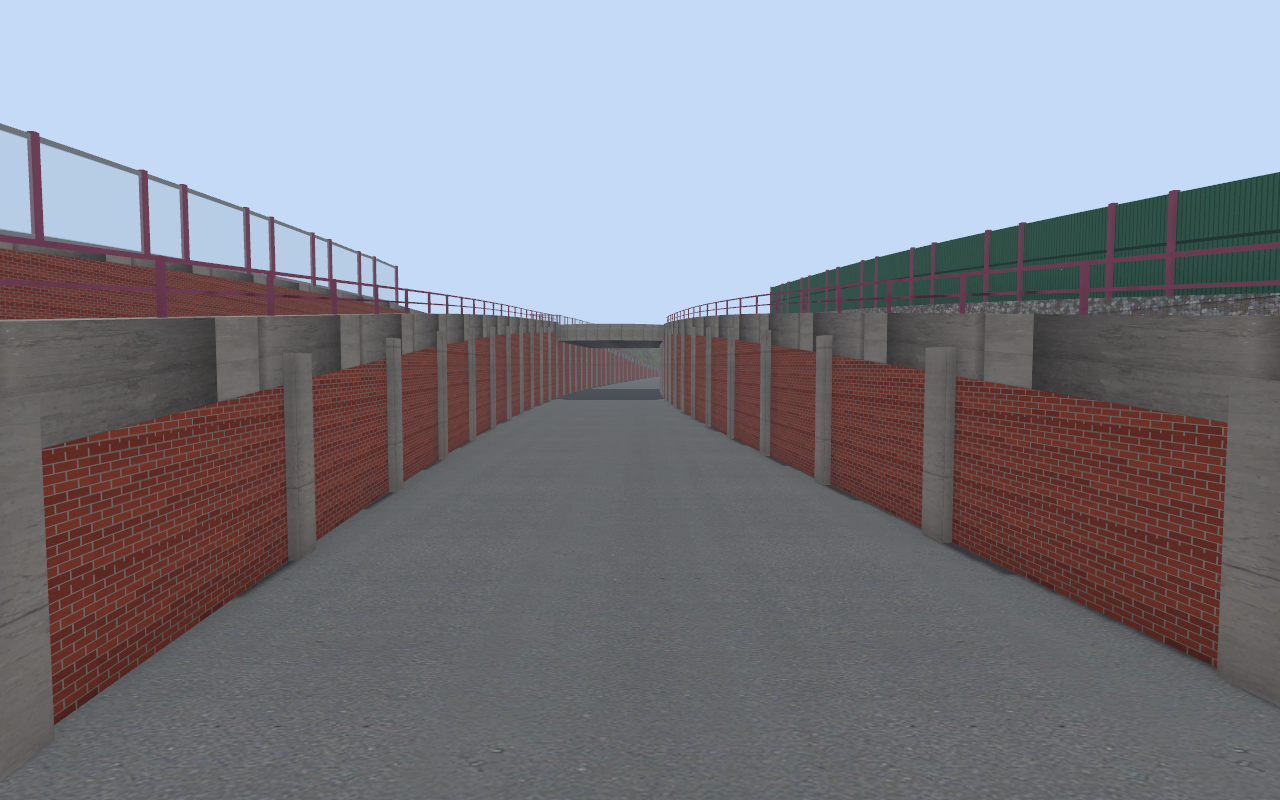
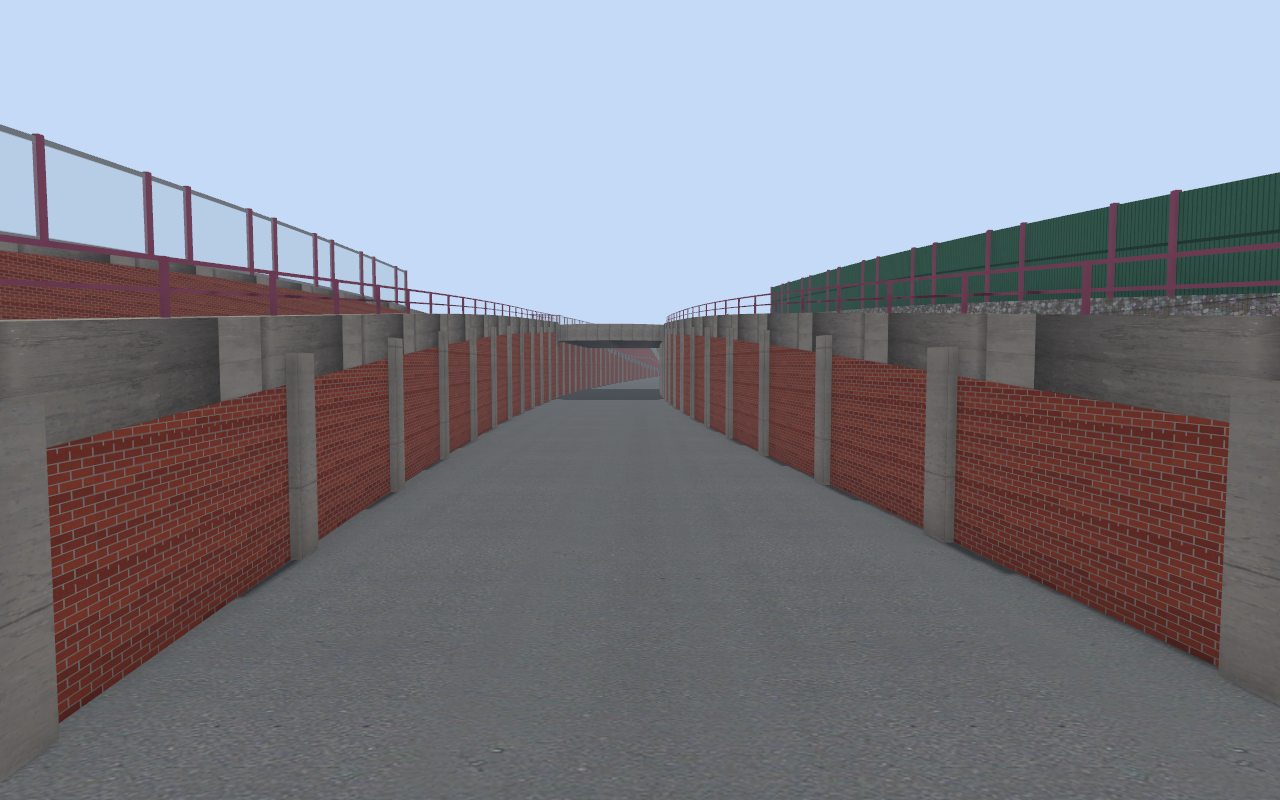
Sonderbau Ring: bis kurz vor das naechste Bauwerk im Sueden verlaengert, Aussenkante auch ohne Trennwand gemessen, Gelaende hinter den Aussenmauern abgesenkt (keine Zacken mehr)

diff --git a/omsigen/ring_entwurf.py b/omsigen/ring_entwurf.py
@@ -17,6 +17,7 @@ from .sonderbau_entwurf import Gelaende, achse_anpassen, gradiente_anpassen, ver
 from . import sonderbau_ring as sr
 
 AUSSCHNITT = (1000, 1170, -460, -100)        # x0, x1, y0, y1 (Kartenkoordinaten)
+Y_ENDE_SUED = -426.0                         # ab hier liegt das naechste Bauwerk ueber dem Ring
 DECKE = (-282.0, -251.0)                     # y-Bereich, in dem das DGM die Decke/Kreuzung zeigt (nicht messen)
 SEITEN = {'w': 1, 'o': -1}                   # Achse Nord -> Sued: rechts (t > 0) = West
 
@@ -53,8 +54,26 @@ def querprofil(ts, h, vz):
         return out
     zt = float(np.median(h[weiter]))
     if zt - zf < 0.8:
-        return out                                     # keine Wand: Rampe muendet auf Ring-Hoehe
-    out['ring'] = _kreuzung(ts, h, (zf + zt) / 2, i0, vz)
+        # keine Trennwand (Rampe auf Ring-Hoehe): Aussenkante = Rand der ganzen ebenen Flaeche (Mauer zum hoeheren
+        # Gelaende); auf flachem Gelaende nicht messbar
+        if zt - zf > 1.5 or abs(t1) > 25:
+            return out
+        k = int(np.argmin(np.abs(ts - t1)))
+        while 0 <= k < len(ts) and h[k] < zf + 0.6:
+            k += vz
+        if not 0 <= k < len(ts) or abs(ts[k]) > 25:
+            return out
+        jen = (vz * (ts - ts[k]) >= 1.5) & (vz * (ts - ts[k]) <= 4.0)
+        if jen.any() and np.median(h[jen]) - zf > 1.5:
+            out['rampe_aussen'] = _kreuzung(ts, h, (zf + float(np.median(h[jen]))) / 2, i0, vz)
+            out['zg'] = float(np.median(h[jen]))
+        return out
+    kante = _kreuzung(ts, h, (zf + zt) / 2, i0, vz)
+    if kante is not None and abs(kante) > 7.5:
+        # weit draussen: keine Trennwand, sondern die Aussenmauer der hier schon vereinten Fahrbahn
+        out['rampe_aussen'], out['zg'] = kante, zt
+        return out
+    out['ring'] = kante
     out['zr'] = zt
     # Rampe: Ebene zt; nach aussen, bis die Hoehe um mehr als 0,6 m abweicht (Aussenwand oder Boeschung)
     j = int(np.argmin(np.abs(ts - (t1 + vz * 2.0))))
@@ -137,7 +156,8 @@ def entwerfen(gel, osm, E0, N0, log=print):
             for f in np.linspace(0, 1, max(2, int(math.dist(p, q) / 2)), endpoint=False):
                 pt = p + (q - p) * f
                 sp, tp = a1.projektion([pt])[0]
-                if (ende == 'Nord' and st_m[:, 0].min() - 45 < sp < st_m[:, 0].min() - 3) or (ende == 'Sued' and st_m[:, 0].max() + 3 < sp < st_m[:, 0].max() + 45):
+                # Sueden: bis kurz vor das naechste Bauwerk ueber dem Ring (y ~ -430)
+                if (ende == 'Nord' and st_m[:, 0].min() - 45 < sp < st_m[:, 0].min() - 3) or (ende == 'Sued' and st_m[:, 0].max() + 3 < sp < st_m[:, 0].max() + 80 and pt[1] > Y_ENDE_SUED):
                     d = q - p
                     n = np.array([d[1], -d[0]]) / np.hypot(*d)          # rechts der OSM-Richtung (Nord -> Sued)
                     enden.append(pt - n * versatz)
@@ -165,7 +185,18 @@ def entwerfen(gel, osm, E0, N0, log=print):
         v = kanten.get(f'ring_{seite}')
         ok = ~np.isnan(z) & (np.abs(feld(seite, 'ring') - v.t(S)) < 0.6 if v is not None else ~np.isnan(z))
         if ok.sum() > 20:
-            hoehen[f'rampe_{seite}'], _ = ohne_ausreisser(S[ok], z[ok], gradiente_anpassen, lambda g, x: g.z(x), 0.4)
+            g, _ = ohne_ausreisser(S[ok], z[ok], gradiente_anpassen, lambda g, x: g.z(x), 0.4)
+            # Enden mit unmoeglicher Steigung (> 10 %: dort wurde Gelaende statt Rampe gemessen) abschneiden
+            for _ in range(3):
+                n = g.neigungen()
+                if abs(n[0]) > 0.10:
+                    ok &= S > g.k[1]
+                elif abs(n[-1]) > 0.10:
+                    ok &= S < g.k[-2]
+                else:
+                    break
+                g, _ = ohne_ausreisser(S[ok], z[ok], gradiente_anpassen, lambda g, x: g.z(x), 0.4)
+            hoehen[f'rampe_{seite}'] = g
     for k, v in kanten.items():
         log(f'{k}: ' + ', '.join(f'{a:.0f}-{b:.0f} m: {t:+.2f}' for a, b, t in v.a))
     for k, g in hoehen.items():

diff --git a/omsigen/sonderbau_ring.py b/omsigen/sonderbau_ring.py
@@ -142,14 +142,18 @@ def aus_entwurf(entwurf, dgm, E0, N0, nn0, schritt=SCHRITT):
     achse = achse_aus_json(entwurf['achse'])
     K = {k: versatz_aus_json(v) for k, v in entwurf['kanten'].items()}
     G = {k: gradiente_aus_json(v) for k, v in entwurf['hoehen'].items()}
-    # Bereich: wo es Ringwaende gibt
-    von = min(min(a for a, _, _ in K[k].a) for k in ('ring_w', 'ring_o'))
-    bis = max(max(b for _, b, _ in K[k].a) for k in ('ring_w', 'ring_o'))
-    S = np.arange(von, bis + 1e-6, schritt)
+    # Bereich: die ganze Achse - ueber die gemessenen Waende hinaus, bis die Rampen eingemuendet sind und der Ring
+    # weiterlaeuft (die Waende enden von selbst, wo Rampe und Gelaende auf Ring-Hoehe liegen)
+    S = np.arange(0.0, achse.laenge + 1e-6, schritt)
     A = achse.punkte(S)
     zr = G['ring'].z(S)
     # Kanten: Entwurf t > 0 = rechts von Nord -> Sued = West; hier quer nach Osten -> Vorzeichen drehen
-    tq = {k: -v.t(S) for k, v in K.items()}
+    tq = {}
+    for k, v in K.items():
+        t = -v.t(S)
+        ok = ~np.isnan(t)
+        # vor/hinter der Messung: letzter Abstand bleibt (Kante laeuft parallel weiter)
+        tq[k] = np.interp(S, S[ok], t[ok]) if ok.any() else t
     zw = {sd: weich_max(np.where((S >= G[f'rampe_{sd}'].k[0] - 30) & (S <= G[f'rampe_{sd}'].k[-1] + 30), G[f'rampe_{sd}'].z(S), -99), zr) for sd in ('w', 'o')}
     roh = []
     for i, s in enumerate(S):
@@ -514,11 +518,14 @@ class Kartengelaende:
         return h00 + fy * (h01 - h00) + fx * (h11 - h01)
 
 
-def deckel(roh, karte, o, breite=7.0):
-    """Deckel neben dem Bauwerk: vom Rand (hinter der Aussenwand auf Gelaendehoehe) 7 m nach aussen bis auf das
+HINTER_MAUER = 5.5        # abgesenktes Gelaende hinter Aussenmauern (eine Rasterzelle + Rand)
+
+
+def deckel(roh, karte, o, breite=12.0):
+    """Deckel neben dem Bauwerk: vom Rand (hinter der Aussenwand auf Gelaendehoehe) 12 m nach aussen bis auf das
     unveraenderte Gelaende - verdecken die Schraege des abgesenkten 5-m-Gelaenderasters (wie bauwerke.rs)"""
     m = Mesh()
-    teile = 4
+    teile = 6
     for seite in ('w', 'o'):
         vz = -1 if seite == 'w' else 1
         reihen = []
@@ -564,6 +571,12 @@ def gelaende(roh):
                     t = float(np.dot(v, e['quer']))
                     pr = profil(e)
                     lo, hi = pr[0][0], pr[2][1]
+                    # hinter Aussenmauern eine Rasterzelle mehr: die Schraege zum unveraenderten Gelaende liegt dann
+                    # hinter der Mauer unter dem Deckel statt davor auf der Fahrbahn
+                    if aussen(e, 'w') is not None:
+                        lo -= HINTER_MAUER
+                    if aussen(e, 'o') is not None:
+                        hi += HINTER_MAUER
                     if lo - 0.3 <= t <= hi + 0.3:
                         out.append([kx, ky, spalte, zeile, round(min(z for _, _, z in pr) - 0.8, 3)])
     return out

diff --git a/editor/src/sonderbau.rs b/editor/src/sonderbau.rs
@@ -72,7 +72,7 @@ mod tests {
         let mut ae = crate::aendern::Aendern::neu(&v);
         // bisherige Strassen an der Stelle weg (nur in der Sitzung), damit das Bild das Bauwerk zeigt
         ae.aktualisieren(&v);
-        let im_bereich = |p: DVec2| (1035.0..1125.0).contains(&p.x) && (-420.0..-135.0).contains(&p.y);
+        let im_bereich = |p: DVec2| (1035.0..1125.0).contains(&p.x) && (-428.0..-130.0).contains(&p.y);
         ae.auswahl = ae.kacheln.values().flatten().filter(|s| {
             s.punkte().iter().any(|(q, _)| im_bereich(q.truncate()))
         }).map(|s| s.id).collect();
@@ -126,6 +126,8 @@ mod tests {
                 (DVec3::new(1093.0, -225.0, 11.5), 180.0, -5.0, 18.0, "rampe_ost"),
                 (DVec3::new(1072.0, -230.0, 11.5), 180.0, -5.0, 18.0, "rampe_west"),
                 (DVec3::new(1084.0, -265.0, 6.0), 200.0, -40.0, 120.0, "oben"),
+                (DVec3::new(1068.0, -390.0, 6.0), 200.0, -35.0, 70.0, "sued_ende"),
+                (DVec3::new(1070.0, -385.0, 6.5), 10.0, -4.0, 30.0, "sued_einfahrt"),
                 (DVec3::new(1056.0, -266.0, 6.0), 0.0, -12.0, 35.0, "bahnbruecke"),
             ];
             for (ziel, gier, neigung, abstand, name) in ansichten {

diff --git a/sonderbau/ring/PLAN.md b/sonderbau/ring/PLAN.md
@@ -23,8 +23,8 @@ DOP40 und DGM1 Bayern (CC BY 4.0).
 
 Etappe 1 aus Rohmessungen war krumm (OSM-Achse mit Knicken, Kanten springen im 1-m-DGM). Deshalb erst ein Entwurf wie
 im Straßenbau (`omsigen/sonderbau_entwurf.py`, `python -m omsigen.ring_entwurf … --aus sonderbau/ring/entwurf`):
-- Achse aus Geraden und Bögen durch die gemessene Mitte der Ring-Fahrbahn: Gerade 24,6 m, Bogen R 508 m (rechts)
-  203,6 m, Gerade 52,4 m; mittlere Abweichung 0,14 m.
+- Achse aus Geraden und Bögen durch die gemessene Mitte der Ring-Fahrbahn (bis kurz vor das nächste Bauwerk bei y ≈ −430): Bogen R 513 m (rechts) 229 m, Gerade 66 m;
+  mittlere Abweichung 0,15 m.
 - Kanten in festem Abstand zur Achse (Ringwände ±4,55–4,70 m, Rampen außen 12,45–13,40 m), Übergänge S-förmig.
 - Gradienten mit Ausrundung: Ring +1,3 % / −0,7 % / +0,8 %; Rampen +7,6 % / +4,3 % → Kuppe → −3,5 % / −7,0 %.
 - Prüfbilder: `entwurf/grundriss*.png` (über dem Luftbild), `entwurf/laengsschnitt.png`; Werte in `entwurf/entwurf.json`.
